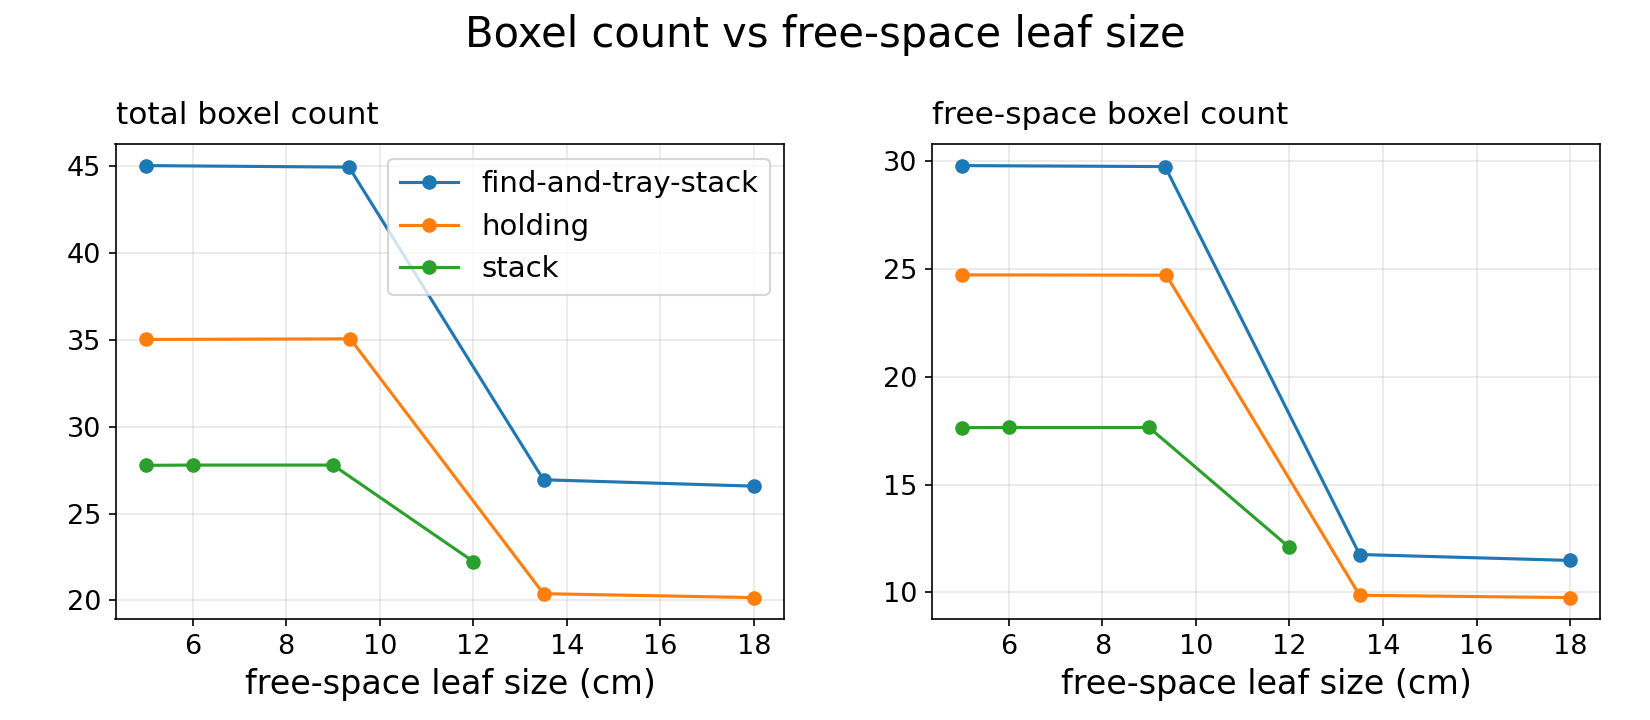
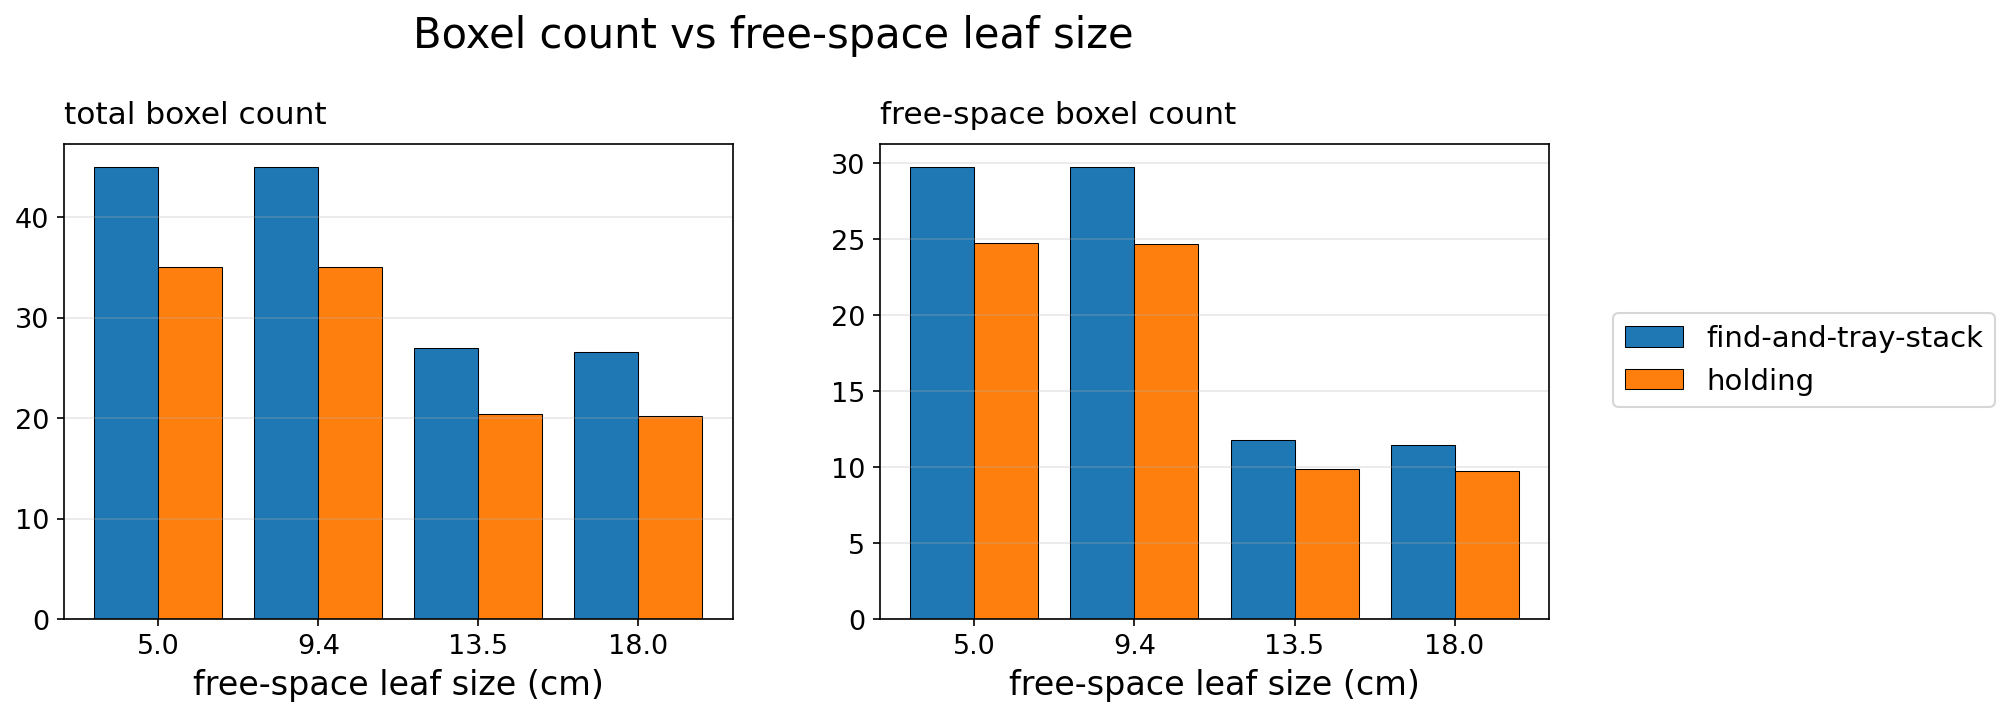
eval_plotter: boxel-vs-resolution -> grouped bar chart (drop stack, legend outside); update fig 5.10 caption/intro (#209)

diff --git a/eval_plotter.py b/eval_plotter.py
@@ -614,47 +614,69 @@ def plot_boxel_vs_resolution(
     out_path: Path,
 ) -> Optional[Path]:
     """Two panels (total | free-space) of mean boxel count vs free-space
-    leaf size, one line per goal.  Each point is one variant, placed at
-    its mean effective leaf size.  Audit #108 part-c / #101.  No-op if
-    fewer than two variants are present."""
-    variants_all = {v for g in grouped.values() for v in g}
+    leaf size, as grouped bars per goal.  Each group is one resolution arm
+    (variant), tick-labelled by its mean effective leaf size in cm.  Audit
+    #108 part-c / #101 / #209.  stack is excluded from this comparison
+    (author, 2026-05-27): its resolution arms use different leaf floors, so
+    the two-goal (find-and-tray-stack, holding) comparison shares one
+    leaf-size axis.  No-op if fewer than two resolution arms are present."""
+    # Author 2026-05-27 — drop stack from the resolution comparison.
+    goals = [g for g in sorted(grouped) if g != "stack"]
+    # Resolution arms present across the kept goals; mean effective leaf
+    # (m) per arm both orders and labels the x-axis.
+    variant_leaf: Dict[str, List[float]] = defaultdict(list)
+    for g in goals:
+        for variant, d in grouped[g].items():
+            if d.get("leaf"):
+                variant_leaf[variant].append(mean(d["leaf"]))
     if not HAVE_MPL:
         print(f"\n=== {title} (matplotlib not available) ===")
-        for goal in sorted(grouped):
-            for variant in sorted(grouped[goal]):
-                p = grouped[goal][variant]
-                print(f"  {goal}/{variant}: leaf={mean(p['leaf'])*100:.1f}cm "
+        for g in goals:
+            for variant in sorted(grouped[g]):
+                p = grouped[g][variant]
+                print(f"  {g}/{variant}: leaf={mean(p['leaf'])*100:.1f}cm "
                       f"total={mean(p['total']):.1f} free={mean(p['free_space']):.1f}")
         return None
-    if len(variants_all) < 2:
-        print("[plotter] boxel-vs-resolution: <2 variants, skipping")
+    if len(variant_leaf) < 2:
+        print("[plotter] boxel-vs-resolution: <2 resolution arms, skipping")
         return None
+    variants = sorted(variant_leaf, key=lambda v: mean(variant_leaf[v]))
+    xlabels = [f"{mean(variant_leaf[v]) * 100:.1f}" for v in variants]
+    xs = list(range(len(variants)))
+    width = 0.8 / max(1, len(goals))
+    # Match the previous line-plot colours (default cycle: find-and-tray-
+    # stack blue, holding orange).
+    goal_colour = {"find-and-tray-stack": "#1f77b4", "holding": "#ff7f0e"}
     fig, axes = plt.subplots(1, 2, figsize=(11, 4.8), sharex=True)
     for ax, (key, lbl) in zip(axes, [("total", "total"),
                                      ("free_space", "free-space")]):
-        for goal in sorted(grouped):
-            pts = []
-            for variant, d in grouped[goal].items():
-                if not d.get("leaf") or not d.get(key):
-                    continue
-                pts.append((mean(d["leaf"]) * 100.0, mean(d[key])))  # cm
-            pts.sort()
-            if not pts:
-                continue
-            ax.plot([p[0] for p in pts], [p[1] for p in pts],
-                    marker="o", label=goal)
+        for gi, goal in enumerate(goals):
+            heights = [mean(grouped[goal][v][key])
+                       if grouped[goal].get(v, {}).get(key) else 0.0
+                       for v in variants]
+            offset = (gi - (len(goals) - 1) / 2.0) * width
+            ax.bar([x + offset for x in xs], heights, width, label=goal,
+                   color=goal_colour.get(goal), edgecolor="black",
+                   linewidth=0.5)
+        ax.set_xticks(xs)
+        ax.set_xticklabels(xlabels, fontsize=13)
         ax.set_xlabel("free-space leaf size (cm)", fontsize=16)
         # Short, horizontal y-axis label placed above the axis so it does
         # not collide with the figure suptitle (supervisor review).
         ax.set_ylabel(f"{lbl} boxel count", fontsize=15, rotation=0, ha="left")
         ax.yaxis.set_label_coords(0.0, 1.03)
         ax.tick_params(labelsize=13)
-        ax.grid(True, alpha=0.3)
-    axes[0].legend(fontsize=14)
+        ax.grid(True, axis="y", alpha=0.3)
+    # Single shared legend outside the right panel.  The bars are tall on
+    # the left of each panel (fine leaf), so an in-axes legend clips them;
+    # placing it outside keeps it clear (bbox_inches="tight" captures it).
+    handles, labels = axes[0].get_legend_handles_labels()
+    fig.legend(handles, labels, loc="center left", bbox_to_anchor=(1.0, 0.5),
+               fontsize=14)
     fig.suptitle(title, fontsize=20)
     fig.subplots_adjust(left=0.07, right=0.97, top=0.80, bottom=0.14,
                         wspace=0.22)
-    fig.savefig(out_path, dpi=150)
+    fig.savefig(out_path, dpi=150, bbox_inches="tight")
     plt.close(fig)
     print(f"[plotter] wrote {out_path}")
     return out_path

diff --git a/thesis/chapters/results.tex b/thesis/chapters/results.tex
@@ -206,12 +206,12 @@ The cost gap traces back to the size of the representation. \Cref{fig:boxel-coun
 \subsection{Free-Space Resolution}
 \label{subsec:resolution}
 
-The adaptive partition has one free parameter: the free-space leaf size. The \texttt{semantic} variant auto-sets it to the largest visible object's footprint plus a 1\,cm margin ($\approx$6--9\,cm, scene-dependent). To check whether this heuristic sits at a sensitive operating point, we swept the leaf size both below auto (the \texttt{semantic+mbs0.05} arm, 5\,cm) and coarser than auto, at 1.5$\times$ and 2$\times$ the auto value, on the same 100-seed scenes. \Cref{fig:boxel-resolution} plots the resulting Boxel count against the leaf size, one line per goal.
+The adaptive partition has one free parameter: the free-space leaf size. The \texttt{semantic} variant auto-sets it to the largest visible object's footprint plus a 1\,cm margin ($\approx$6--9\,cm, scene-dependent). To check whether this heuristic sits at a sensitive operating point, we swept the leaf size both below auto (the \texttt{semantic+mbs0.05} arm, 5\,cm) and coarser than auto, at 1.5$\times$ and 2$\times$ the auto value, on the same 100-seed scenes. \Cref{fig:boxel-resolution} plots the resulting Boxel count against the leaf size as grouped bars per goal.
 
 \begin{figure}[H]
     \centering
     \includegraphics[width=\textwidth]{boxel_count_vs_resolution.png}
-    \caption{Mean Boxel count vs free-space leaf size, per goal (semantic variant; total and free-space cells). Each point is one resolution arm, placed at its mean effective leaf size. The count is flat at and below the auto-set leaf size and falls 30--40\,\% as the leaf is coarsened above it.}
+    \caption{Mean Boxel count vs free-space leaf size for the find-and-tray-stack and holding goals (semantic variant; total and free-space cells). Each bar group is one resolution arm, labelled by its mean effective leaf size. The count is flat at and below the auto-set leaf size and falls 30--40\,\% as the leaf is coarsened above it.}
     \label{fig:boxel-resolution}
 \end{figure}
 
